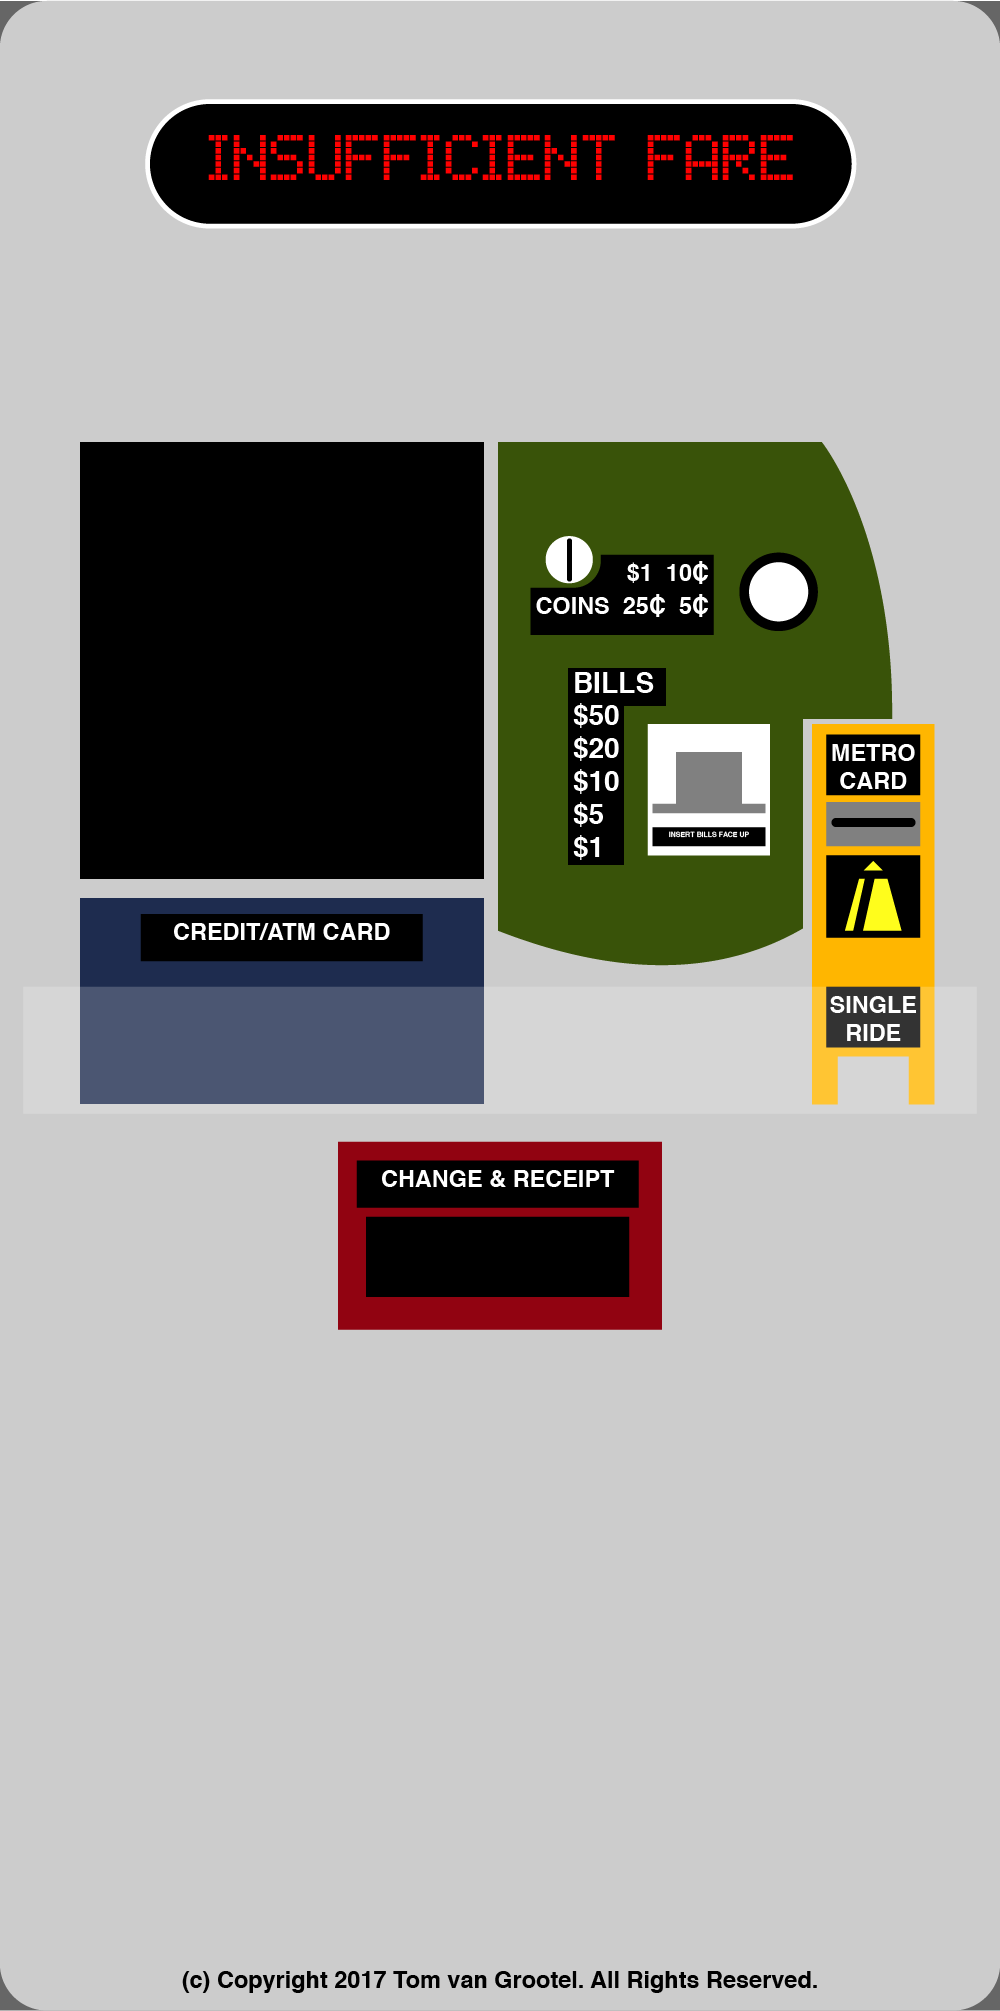
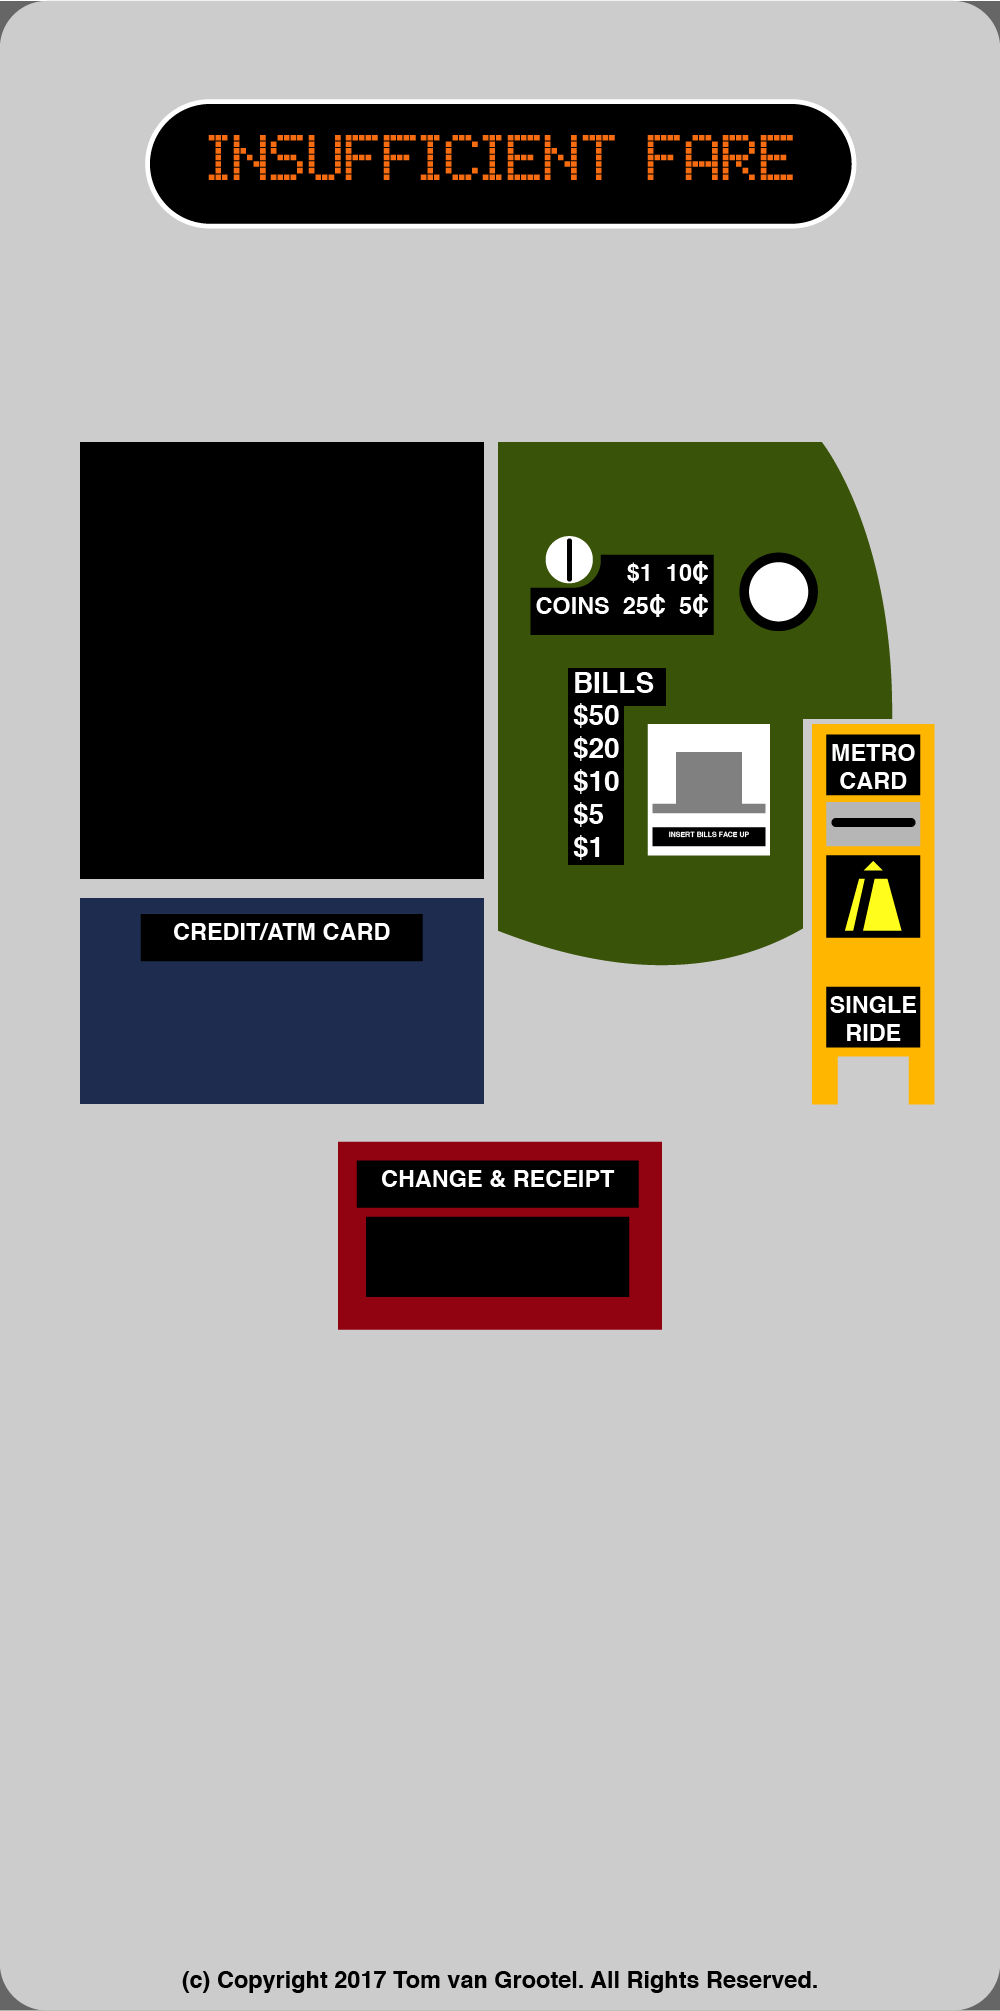
Match colors
Use colormap

diff --git a/_css/stylesheet.css b/_css/stylesheet.css
@@ -126,12 +126,21 @@ body > p {
 
 
 /* 
-red #860106
+grey #b6b6b6
+
+red #860106 910311
 yellow #ffb600
 blue #1E2C4F
-green #3b5307
+green #3b5307 395309
+
+red ui ad2229
+//red ui A40510
+//dark red ui A4030D
+orange ui f76c11
 yellow ui F7B500
-grey #b6b6b6
+blue ui 012241
+green ui 4a5a00
+
 */
 
 // type 'c)<tab> isoD<tab>' to add following line
